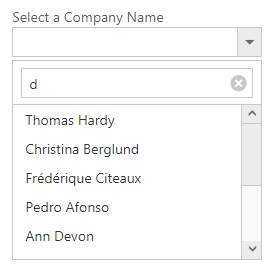
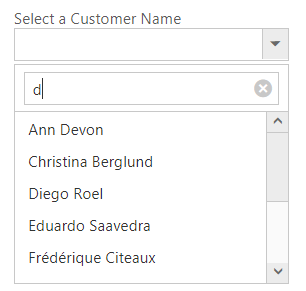
Filtering topic has been added.

diff --git a/aspnet-core/DropDownList/ServerFiltering.md b/aspnet-core/DropDownList/ServerFiltering.md
@@ -1,23 +1,112 @@
 ---
 layout: post
-title: Server Filtering in the DropDownList control for Syncfusion ASP.NET Core
-description: Descripes about server filtering in the DropDownList control for Syncfusion ASP.NET Core
+title: Searching in the DropDownList control for Syncfusion ASP.NET Core
+description: Descripes about searching in the DropDownList control for Syncfusion ASP.NET Core
 platform: aspnet-core
 control: DropDownList
 documentation: ug
-keywords: DropDownList, dropdown, Server Filtering
+keywords: DropDownList, dropdown, Server Filtering, Search, Incremental Search, Filter Search
 
 ---
 
-# Server Filtering
+# Search
+
+Items are searched based on the keyed in values to the textbox. There are two types of searches,
+
+* Incremental Search
+* Filter Search
+
+## Incremental Search
+
+Selects the item in the popup list based on the keyed in value. If the time taken to type exceeds 1000 milliseconds then filtered items will be reset based on the current input value. By default this mode of search is enabled. Incremental search can be case sensitive or case insensitive. To make case sensitive, you can use CaseSensitiveSearch property.
+
+{% tabs %}
+
+	{% highlight CSHTML %}
+
+    <ej-drop-down-list id="dropdown" datasource="ViewBag.datasource" enable-incremental-search="true" case-sensitive-search="true">
+        <e-drop-down-list-fields text="Text" value="Value" />
+    </ej-drop-down-list>
+
+	{% endhighlight %}
+    
+    {% highlight c# %}
+        public ActionResult Index()
+        {
+            List<Data> DropDownData = new List<Data>();
+            DropDownData.Add(new Data { Value = "emp1", Text = "Adams"});
+            DropDownData.Add(new Data { Value = "emp2", Text = "James"});
+            DropDownData.Add(new Data { Value = "emp3", Text = "Maria"});
+            DropDownData.Add(new Data { Value = "emp4", Text = "Jessica"});
+            DropDownData.Add(new Data { Value = "emp5", Text = "Jenneth"});
+            ViewBag.datasource=DropDownData;
+            return View();
+        }
+        public class Data
+        {
+            public string Value { get; set; }
+            public string Text { get; set; }
+        }
+    {% endhighlight %}
+    
+{% endtabs %}
+
+![](Functionalities_images/Functionalities_img8.png)
+
+## Filter search
+
+You can quickly locate specific item within a large data source by filtering matches with a search box. A text box appears in the popup list for searching when EnableFilterSearch property is enabled. By default, filtering returns the matched items list based on text in search textbox. 
+You can configure the search filter by using FilterType property that takes SearchFilterType enum values. There is two types of filter options,
+
+* Starts With 
+* Contains
+
+N> Items are filtered based on “SearchFilterType.Contains” filter type by default.
+
+{% tabs %}
+
+	{% highlight CSHTML %}
+
+    <ej-drop-down-list id="dropdown" datasource="ViewBag.datasource" enable-filter-search="true" filter-type="@SearchFilterType.StartsWith">
+    <e-drop-down-list-fields text="Text" value="Value" />
+    </ej-drop-down-list>
+
+	{% endhighlight %}
+    
+    {% highlight c# %}
+        public ActionResult Index()
+        {
+            List<Data> DropDownData = new List<Data>();
+            DropDownData.Add(new Data { Value = "emp1", Text = "Adams", Selected = true });
+            DropDownData.Add(new Data { Value = "emp2", Text = "James", Selected = false });
+            DropDownData.Add(new Data { Value = "emp3", Text = "Maria", Selected = true });
+            DropDownData.Add(new Data { Value = "emp4", Text = "Jessica", Selected = false });
+            DropDownData.Add(new Data { Value = "emp5", Text = "Jenneth", Selected = false });
+            ViewBag.datasource=DropDownData;
+            return View();
+        }
+        public class Data
+        {
+            public string Value { get; set; }
+            public string Text { get; set; }
+        }
+    {% endhighlight %}
+    
+{% endtabs %}
+
+![](Functionalities_images/Functionalities_img9.png)
+
+I> When VirtualScrolling enabled with searching, then filter will be applied only on the DropDownList items available at the moment.
+
+## Server Filtering
 
 Server filtering for displaying only a fixed amount of dataset from the whole dataset. In general, DropDownList displays just the data returned from the server. This feature is convenient for you to apply when the user does not want to see the whole dataset in the popup wrapper.
 The property enable-server-filtering If set to true, the filtering operations performed in the remote service and returns the result.
 
 {% highlight CSHTML %}
 
-    <div class="ctrllabel">Select a Company Name</div>
-    <ej-drop-down-list id="CompanyNames" width="100%" enable-filter-search="true" enable-server-filtering="true">
+    <div class="ctrllabel">Select a Customer Name</div>
+    <ej-drop-down-list id="customerList" width="100%" enable-filter-search="true" enable-server-filtering="true">
         <e-datamanager url="//js.syncfusion.com/demos/ejServices/Wcf/Northwind.svc/Customers" cross-domain="true"></e-datamanager>
         <e-drop-down-list-fields text="ContactName" value="ContactName"/>
     </ej-drop-down-list>

diff --git a/aspnet-core/DropDownList/Functionalities.md b/aspnet-core/DropDownList/Functionalities.md
@@ -702,91 +702,3 @@ The below scenario can be explained with three DropDownList for the multi-level 
 
 First two DropDownList cascaded based on the parentId, and then from second to third, cascading performed based on the value field.
 
-## Search
-
-Items are searched based on the keyed in values to the textbox. There are two types of searches,
-
-* Incremental Search
-* Filter Search
-
-### Incremental Search
-
-Selects the item in the popup list based on the keyed in value. If the time taken to type exceeds 1000 milliseconds then filtered items will be reset based on the current input value. By default this mode of search is enabled. Incremental search can be case sensitive or case insensitive. To make case sensitive, you can use CaseSensitiveSearch property.
-
-{% tabs %}
-
-	{% highlight CSHTML %}
-
-    <ej-drop-down-list id="dropdown" datasource="ViewBag.datasource" enable-incremental-search="true" case-sensitive-search="true">
-        <e-drop-down-list-fields text="Text" value="Value" />
-    </ej-drop-down-list>
-
-	{% endhighlight %}
-    
-    {% highlight c# %}
-        public ActionResult Index()
-        {
-            List<Data> DropDownData = new List<Data>();
-            DropDownData.Add(new Data { Value = "emp1", Text = "Adams"});
-            DropDownData.Add(new Data { Value = "emp2", Text = "James"});
-            DropDownData.Add(new Data { Value = "emp3", Text = "Maria"});
-            DropDownData.Add(new Data { Value = "emp4", Text = "Jessica"});
-            DropDownData.Add(new Data { Value = "emp5", Text = "Jenneth"});
-            ViewBag.datasource=DropDownData;
-            return View();
-        }
-        public class Data
-        {
-            public string Value { get; set; }
-            public string Text { get; set; }
-        }
-    {% endhighlight %}
-    
-{% endtabs %}
-
-![](Functionalities_images/Functionalities_img8.png)
-
-### Filter search
-
-You can quickly locate specific item within a large data source by filtering matches with a search box. A text box appears in the popup list for searching when EnableFilterSearch property is enabled. By default, filtering returns the matched items list based on text in search textbox. 
-You can configure the search filter by using FilterType property that takes SearchFilterType enum values. There is two types of filter options,
-
-* Starts With 
-* Contains
-
-N> Items are filtered based on “SearchFilterType.Contains” filter type by default.
-
-{% tabs %}
-
-	{% highlight CSHTML %}
-
-    <ej-drop-down-list id="dropdown" datasource="ViewBag.datasource" enable-filter-search="true" filter-type="@SearchFilterType.StartsWith">
-    <e-drop-down-list-fields text="Text" value="Value" />
-    </ej-drop-down-list>
-
-	{% endhighlight %}
-    
-    {% highlight c# %}
-        public ActionResult Index()
-        {
-            List<Data> DropDownData = new List<Data>();
-            DropDownData.Add(new Data { Value = "emp1", Text = "Adams", Selected = true });
-            DropDownData.Add(new Data { Value = "emp2", Text = "James", Selected = false });
-            DropDownData.Add(new Data { Value = "emp3", Text = "Maria", Selected = true });
-            DropDownData.Add(new Data { Value = "emp4", Text = "Jessica", Selected = false });
-            DropDownData.Add(new Data { Value = "emp5", Text = "Jenneth", Selected = false });
-            ViewBag.datasource=DropDownData;
-            return View();
-        }
-        public class Data
-        {
-            public string Value { get; set; }
-            public string Text { get; set; }
-        }
-    {% endhighlight %}
-    
-{% endtabs %}
-
-![](Functionalities_images/Functionalities_img9.png)
-
-I> When VirtualScrolling enabled with searching, then filter will be applied only on the DropDownList items available at the moment.
